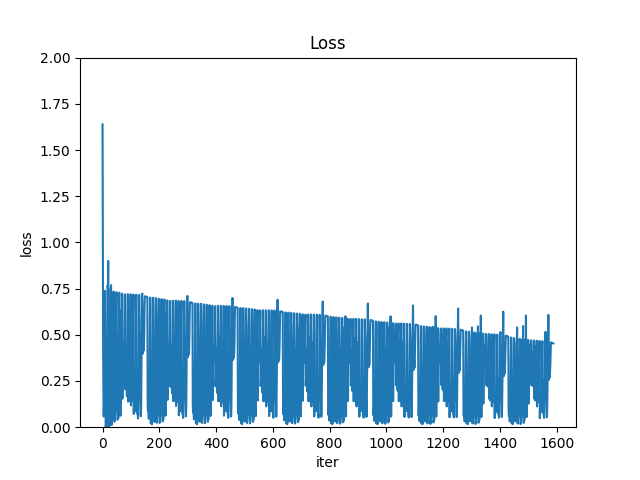
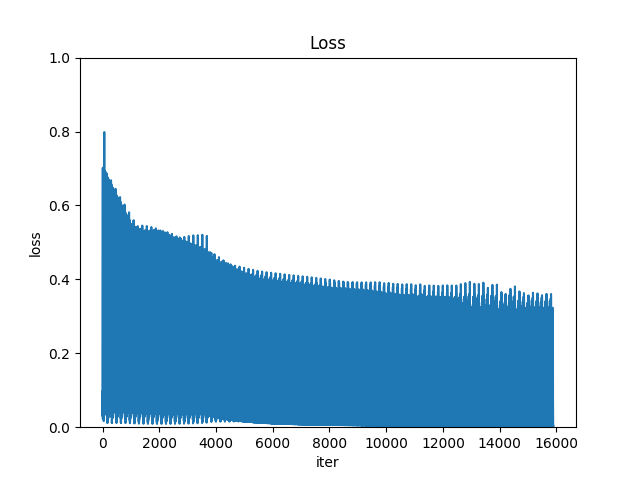
model update

diff --git a/train.py b/train.py
@@ -52,7 +52,7 @@ def train(model, train_loader, device,
 if __name__ == '__main__':
 
     # TODO: Get through CLI args
-    epochs = 10
+    epochs = 100
     batch_size = 1
     use_gpu = True
     tile_size = (256, 256)
